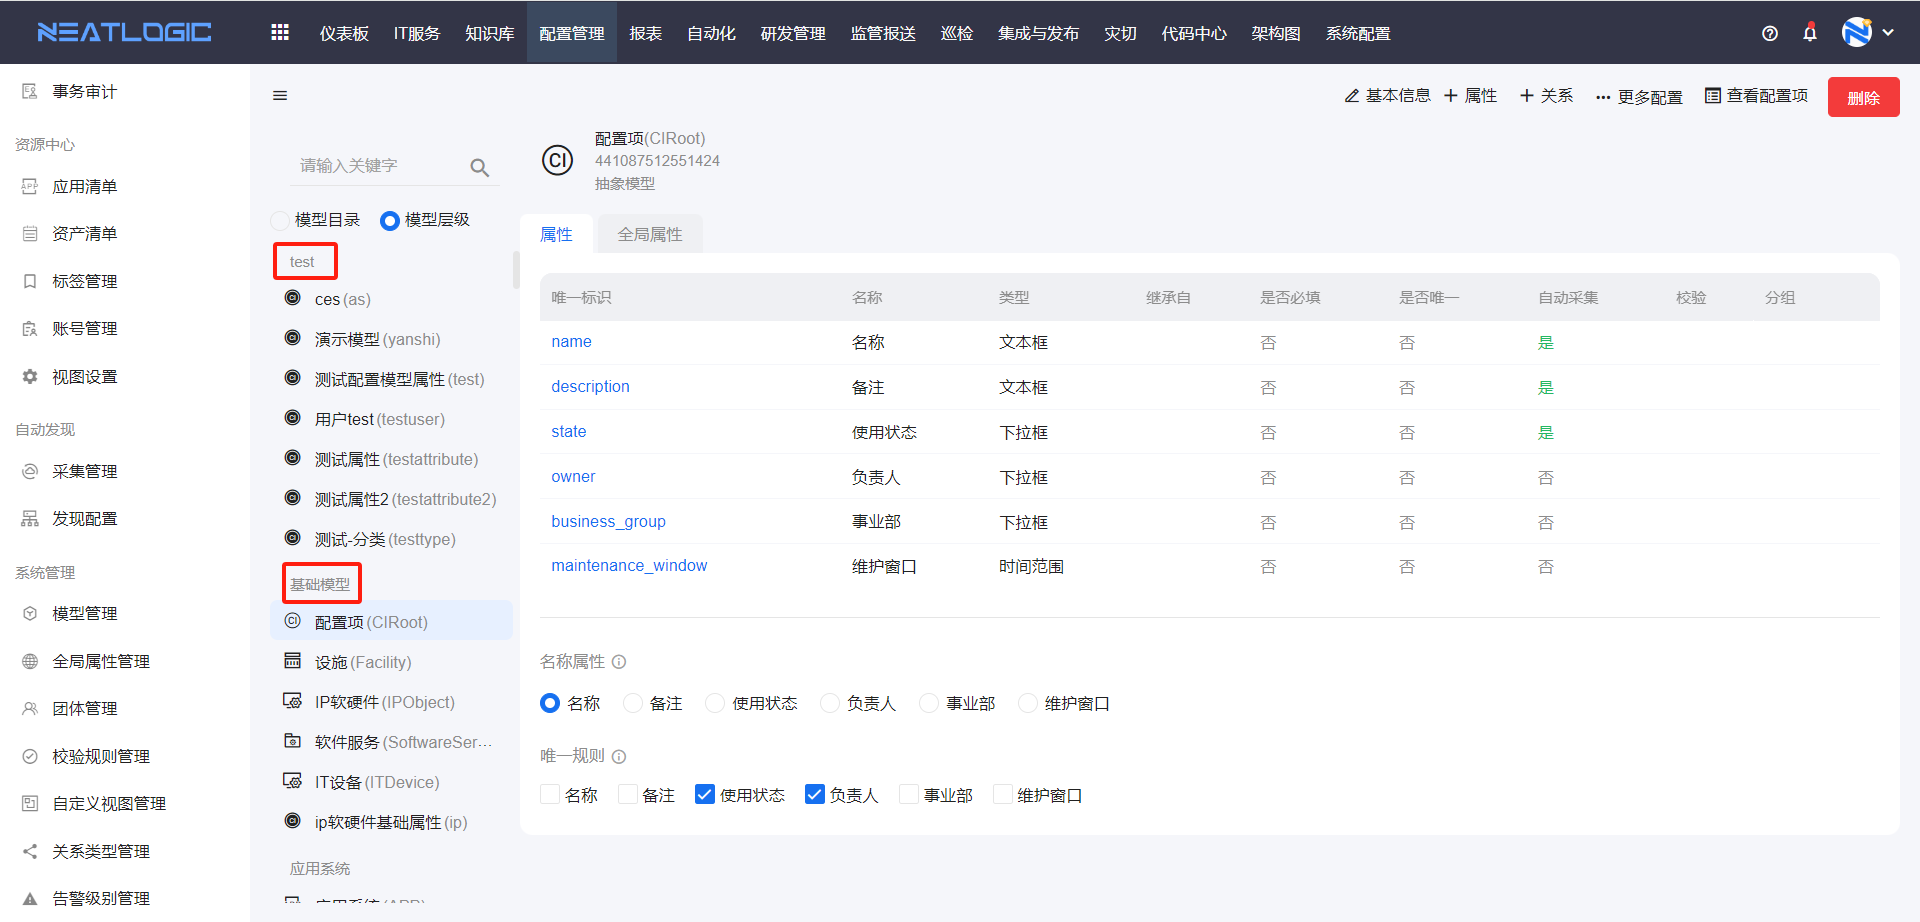
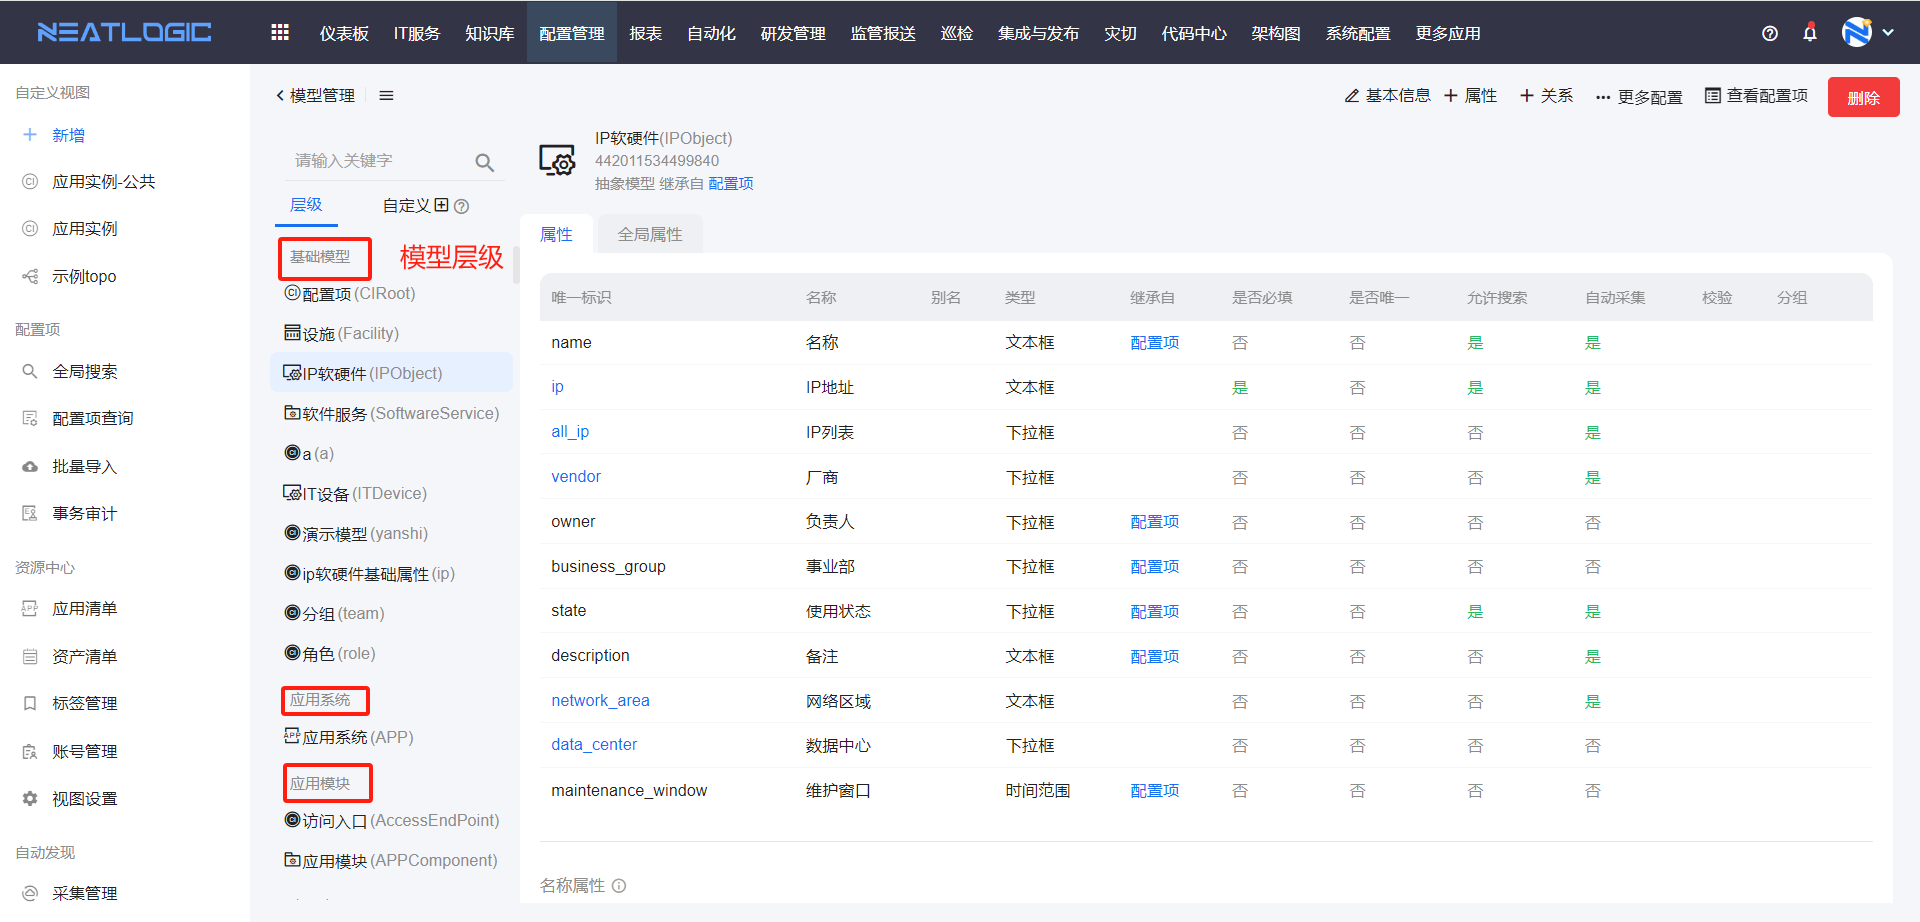
修改模型管理层级功能说明

diff --git a/src/main/resources/neatlogic/resources/documentonline/zh/3.配置管理/模型管理/模型管理.md b/src/main/resources/neatlogic/resources/documentonline/zh/3.配置管理/模型管理/模型管理.md
@@ -8,34 +8,30 @@
 * 名称属性：在拓扑展示和关系展示时，作为配置项名称的属性值，名称属性只能选一个。
 * 唯一规则：选择一个或多个属性作为配置项的唯一性校验的规则。
 
-## 模型层级
+## 层级
 访问位置：配置管理>系统管理>模型管理
 <br>
-模型层级相关功能包括添加、管理模型层级。引用模型类型的配置项模型为0时，模型类型隐藏。
+模型层级相关功能包括添加、管理模型的层级。引用模型类型的配置项模型为0时，模型类型隐藏。
 <br>
 
-### 添加类型
-![](images/模型管理_类型_添加类型.png)
+### 添加层级
+![](images/模型管理_层级_添加层级.png)
 
-### 管理模型层级
-设置类型名称、排序、关键类型、在拓扑中显示和删除类型。关联模型数量为零的类型才允许删除，且在模型列表中隐藏。
-![](images/模型管理_类型_类型设置.gif)
-关键类型：重点显示在左侧导航目录中的类型，方便用户快速找到类型及其下的关键模型。当关键类型下无关键模型时，导航列表隐藏关键类型。
-![](images/模型管理_类型_关键类型.png)
-在拓扑中显示：显示拓扑图时，显示类型中所有的配置项模型。
-![](images/模型管理_类型_在拓扑中显示.png)
+### 管理层级
+设置层级名称、排序、在拓扑中显示和删除层级。关联模型数量为零的层级才允许删除，且在模型列表中隐藏。
+![](images/模型管理_层级_层级设置.gif)
+在拓扑中显示：显示拓扑图时，显示层级中所有的配置项模型。
+![](images/模型管理_层级_在拓扑中显示.png)
 模型编辑页和配置项列表页面的模型列表支持按模型层级展示，模型层级只有一级。
 ![](images/模型管理_模型层级应用.png)
 
-## 模型目录
-模型编辑页和配置项列表页面的模型列表支持按模型目录展示，模型目录完全由管理员自定义，支持多层级的结构。
-![](images/模型管理_模型目录_应用.png)
+## 自定义目录
+在模型编辑页面，左侧目录列表中有层级和自定义两个分类。
 
-### 模型目录管理
-入口：模型管理-模型目录
-![](images/模型管理_模型目录管理.png)
-模型目录管理列表支持添加根目录、添加下级目录、编辑和删除目录，已被模型关联的目录禁止删除。
-![](images/模型管理_模型目录管理操作.png)
+**层级**是基于模型所属层级，对所有模型进行归类，层级内容参考上方[说明](#层级)。
+
+**自定义**是在自定义列表下，用户可以手动拖动模型修改模型的层级和排序，自定义目录仅用于辅助查看，无其他实际意义。
+![](images/模型管理_自定义目录.gif)
 
 ## 配置项模型
 配置项模型可手动添加，或通过导入添加。
